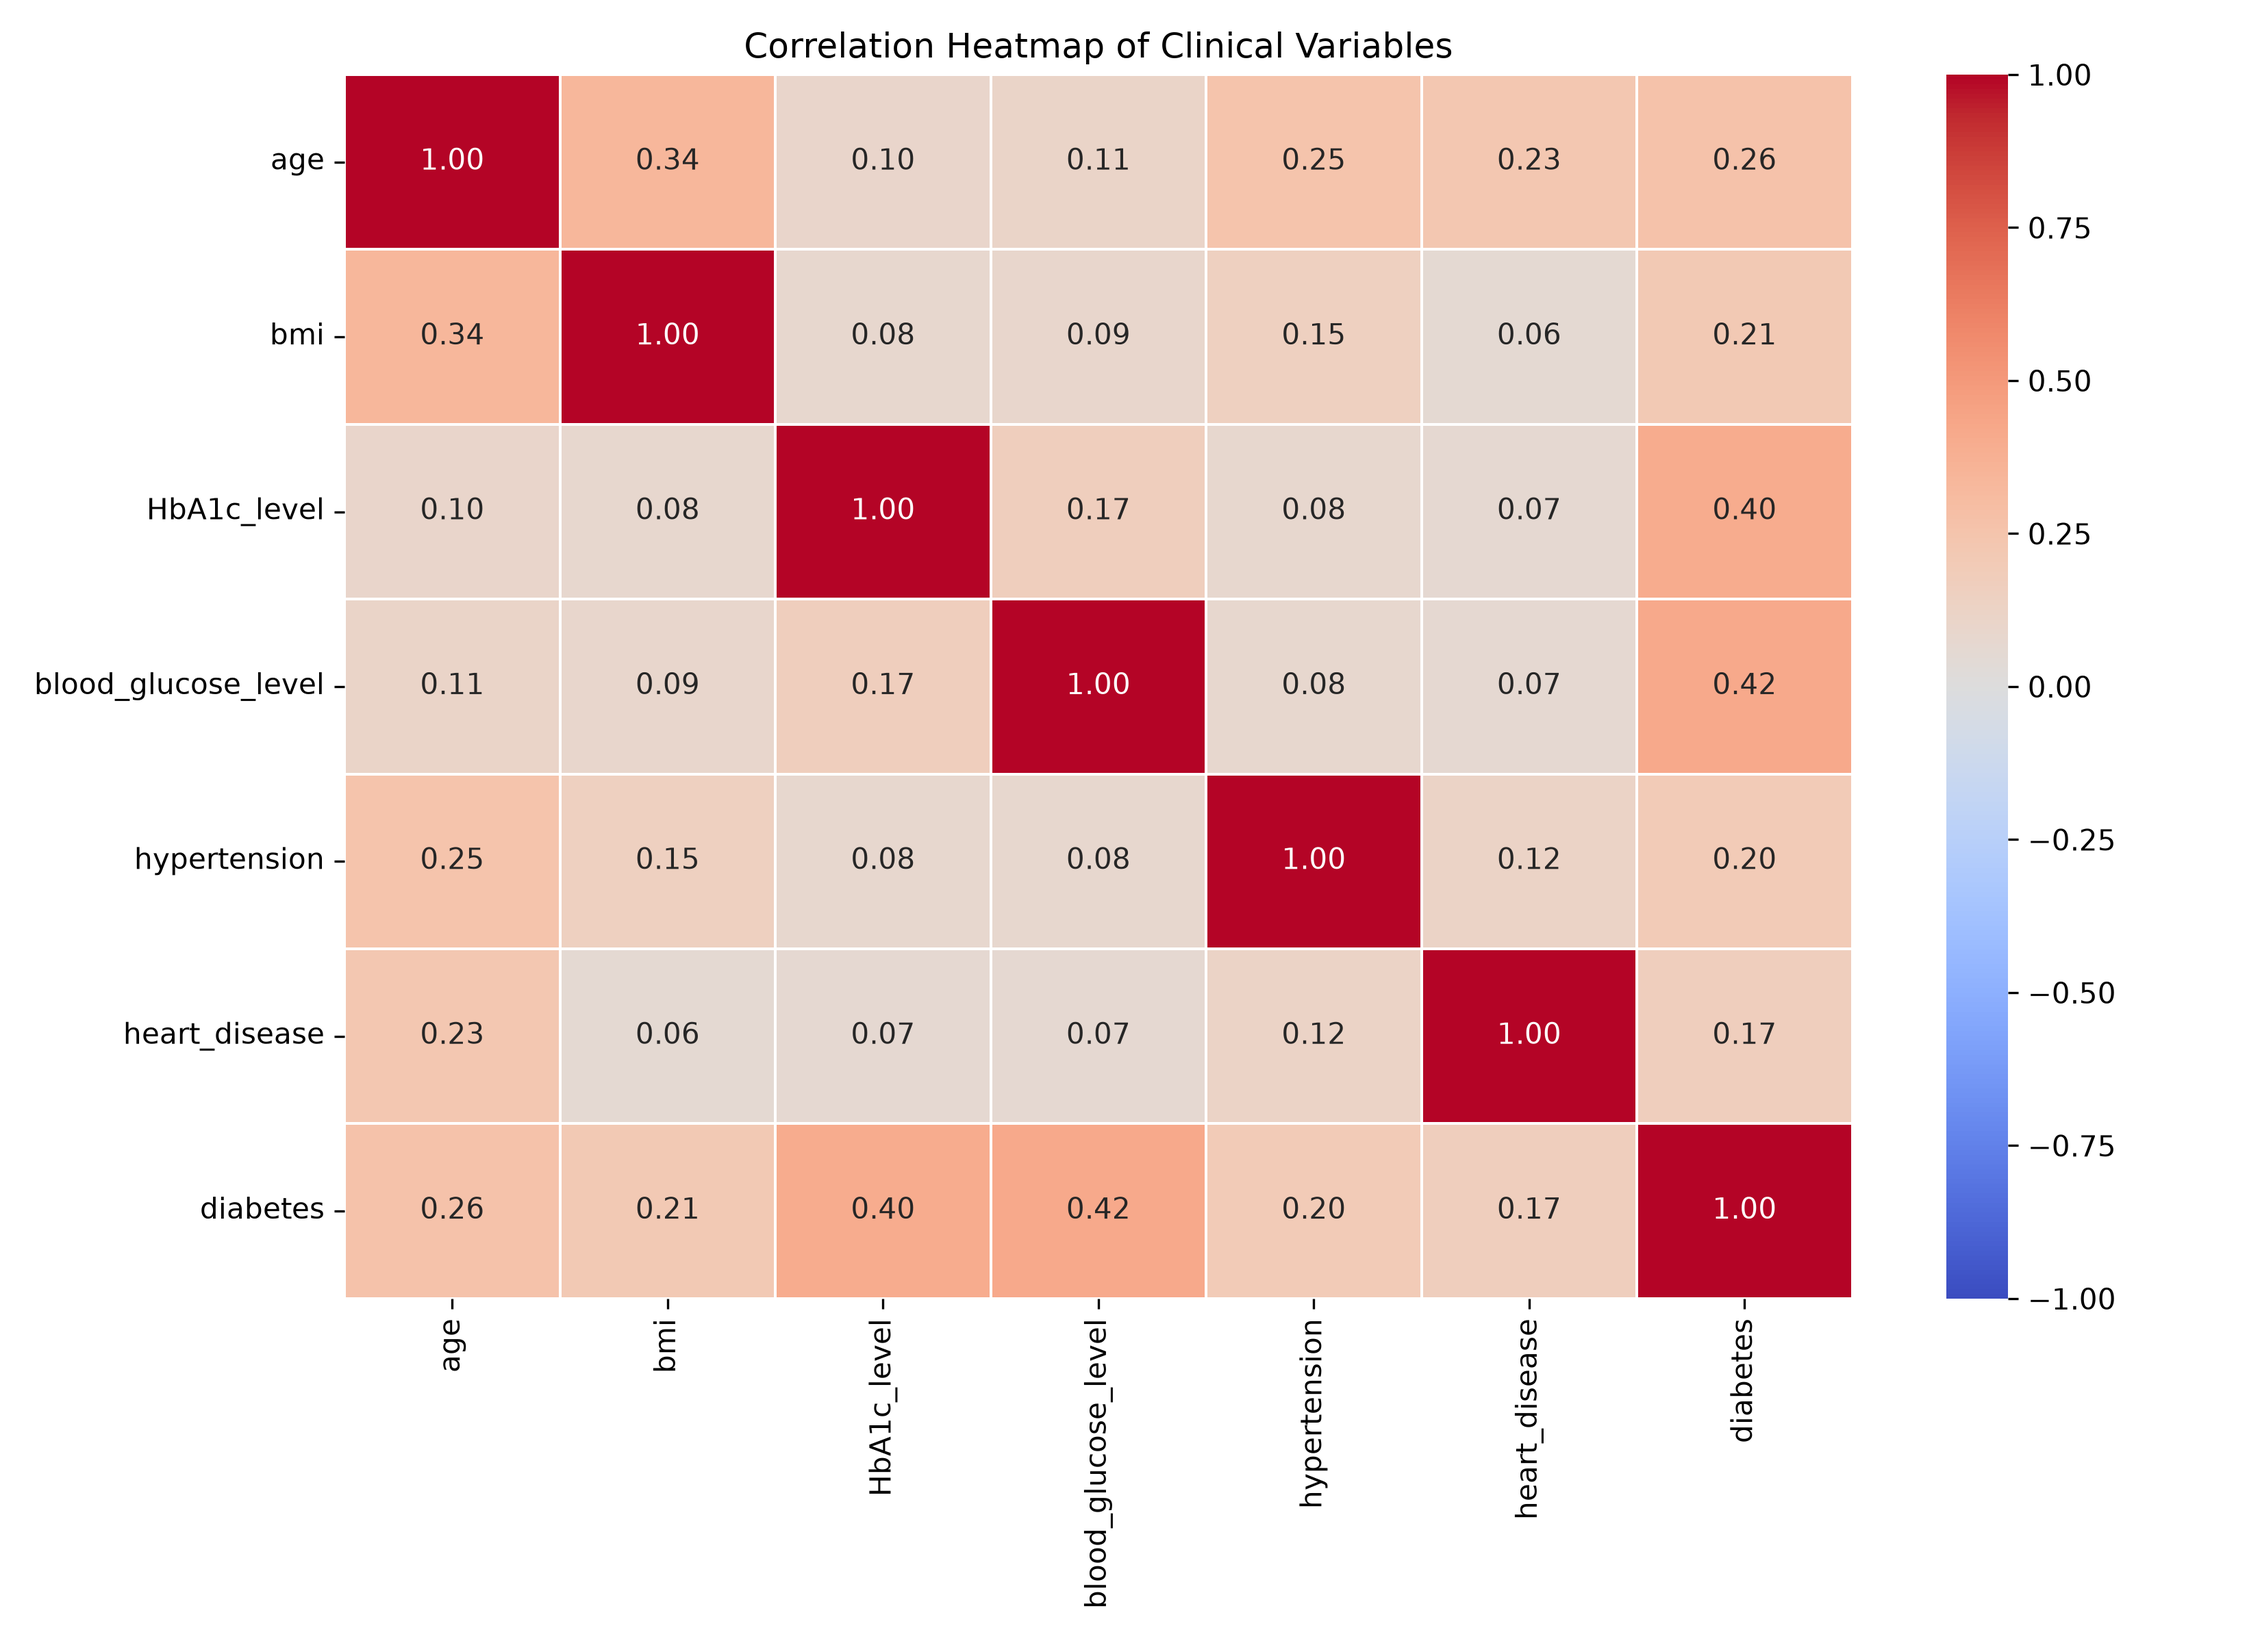
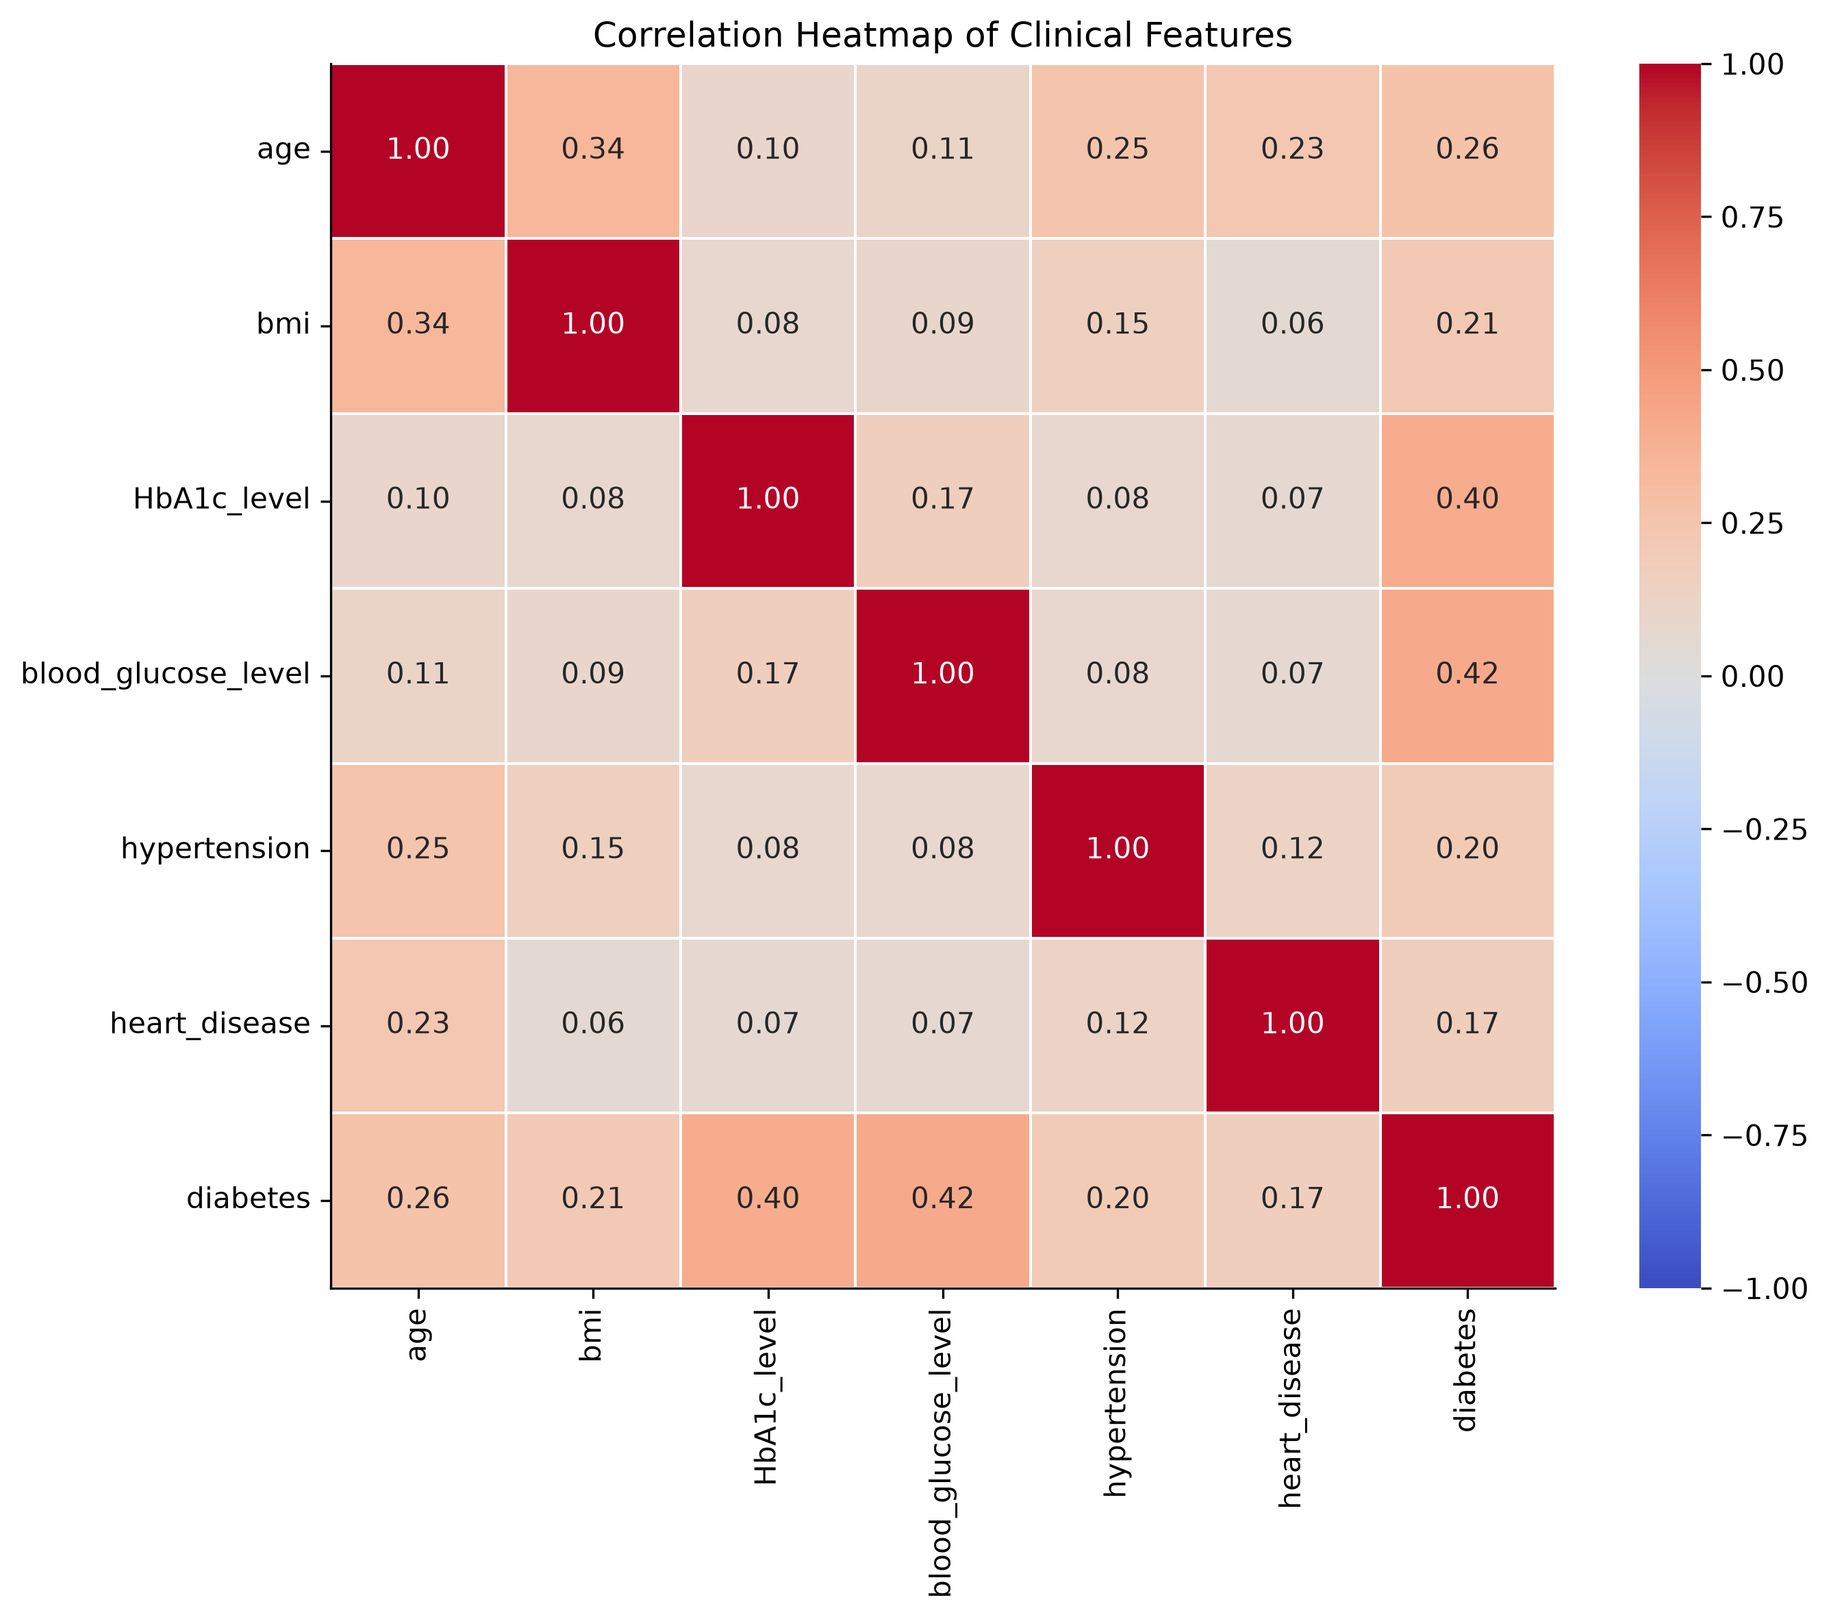
Improve Q11 violin plots and correlation heatmap

diff --git a/src/visualisation.py b/src/visualisation.py
@@ -144,57 +144,86 @@ print("Youden's J:", round(best_youden, 4))
 
 # Q11: VIOLIN PLOTS AND CORRELATION HEATMAP
 
+
+# Q11: Biomarker Distribution Violin Plots
+
+
+# Q11: Biomarker Distribution Violin Plots
+
+# Create diagnosis labels
 df["Diagnosis"] = df["diabetes"].map({
     0: "Non-diabetic",
     1: "Diabetic"
 })
 
-fig, axes = plt.subplots(
-    1, 2,
-    figsize=(14, 6)
-)
+# Define consistent colours
+colors = {
+    "Non-diabetic": "steelblue",
+    "Diabetic": "darkorange"
+}
 
+# Create side-by-side violin plots
+fig, axes = plt.subplots(1, 2, figsize=(14, 6))
+
+# HbA1c distribution
 sns.violinplot(
     data=df,
     x="Diagnosis",
     y="HbA1c_level",
     hue="Diagnosis",
-    ax=axes[0],
+    palette=colors,
     inner="quartile",
-    legend=False
+    cut=0,
+    dodge=False,
+    ax=axes[0]
 )
 
-axes[0].set_title(
-    "HbA1c Distribution by Diabetes Status"
-)
+axes[0].set_title("HbA1c Distribution by Diabetes Status")
 axes[0].set_xlabel("Diagnosis")
 axes[0].set_ylabel("HbA1c Level")
 
+# Remove legend (category names are already on X-axis)
+if axes[0].get_legend():
+    axes[0].get_legend().remove()
+
+
+# Blood glucose distribution
 sns.violinplot(
     data=df,
     x="Diagnosis",
     y="blood_glucose_level",
     hue="Diagnosis",
-    ax=axes[1],
+    palette=colors,
     inner="quartile",
-    legend=False
+    cut=0,
+    dodge=False,
+    ax=axes[1]
 )
 
-axes[1].set_title(
-    "Blood Glucose Distribution by Diabetes Status"
-)
-
+axes[1].set_title("Blood Glucose Distribution by Diabetes Status")
 axes[1].set_xlabel("Diagnosis")
 axes[1].set_ylabel("Blood Glucose Level")
-plt.tight_layout()
-plt.savefig(
-    FIGURE_FOLDER + "/distribution_regimes.png",
-    dpi=300
-)
-plt.close()
-print("Q11 violin plots created successfully!")
 
-# Q11: ANNOTATED CORRELATION HEATMAP
+if axes[1].get_legend():
+    axes[1].get_legend().remove()
+
+
+# Remove unnecessary borders
+sns.despine(ax=axes[0])
+sns.despine(ax=axes[1])
+
+plt.tight_layout()
+
+plt.savefig(
+    os.path.join(FIGURE_FOLDER, "distribution_regimes.png"),
+    dpi=300,
+    bbox_inches="tight"
+)
+
+plt.close()
+
+
+# Q11: Annotated Correlation Heatmap
 
 correlation_columns = [
     "age",
@@ -206,36 +235,39 @@ correlation_columns = [
     "diabetes"
 ]
 
-correlation_data = df[
-    correlation_columns
-].corr(numeric_only=True)
+# Calculate correlation matrix
+correlation_matrix = df[correlation_columns].corr()
 
-plt.figure(figsize=(11, 8))
+# Create heatmap
+fig, ax = plt.subplots(figsize=(10, 8))
 
 sns.heatmap(
-    correlation_data,
+    correlation_matrix,
     annot=True,
     fmt=".2f",
     cmap="coolwarm",
     linewidths=0.5,
     vmin=-1,
-    vmax=1
+    vmax=1,
+    square=True,
+    ax=ax
 )
 
-plt.title(
-    "Correlation Heatmap of Clinical Variables"
-)
+ax.set_title("Correlation Heatmap of Clinical Features")
+
+sns.despine(ax=ax)
 
 plt.tight_layout()
 
 plt.savefig(
-    FIGURE_FOLDER + "/correlation_heatmap.png",
-    dpi=300
+    os.path.join(FIGURE_FOLDER, "correlation_heatmap.png"),
+    dpi=300,
+    bbox_inches="tight"
 )
 
 plt.close()
 
-print("Q11 correlation heatmap created successfully!")
+print("\nQ11: Violin plots and correlation heatmap generated.")
 
 
 # Q12: INTERACTIVE 3D DASHBOARD(HTML)
